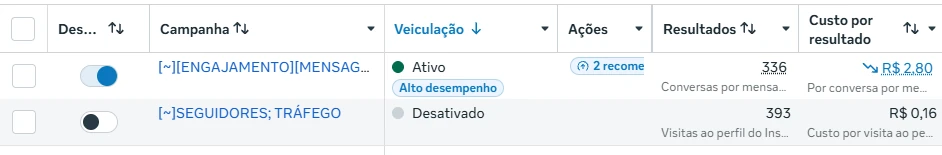
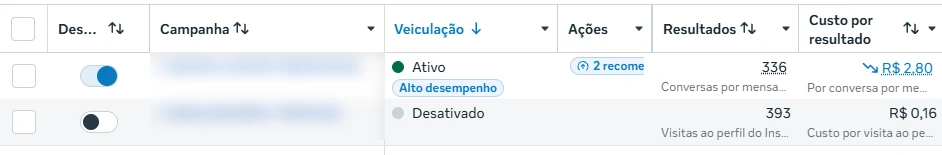
Social media com print real animado, campanhas borradas, painel da Michelli e ajustes de texto
Ainda não publicado: aguardando aprovação final.

Claude-Session: https://claude.ai/code/session_01Qdzs8DidFmEUhaW9UrPSR9

Changed region(s): [[0.1539, 0.3355, 0.4002, 0.4903], [0.1539, 0.671, 0.3694, 0.7742]]

diff --git a/index.html b/index.html
@@ -389,41 +389,14 @@
           </div>
           <div class="cine__stage" aria-hidden="true">
             <div class="cine__camera"><div class="m-mock" data-w="150" data-h="304">
-                <div class="m-phone"><div class="m-phone__screen m-ig">
-                  <span class="m-phone__island"></span>
-                  <div class="m-status"><span>9:41</span><i></i></div>
-                  <div class="m-ig__head"><span>‹</span><span>filtrum.mkt</span><svg viewBox="0 0 24 24"><path fill="currentColor" d="M5 10.5a1.5 1.5 0 1 0 0 3 1.5 1.5 0 0 0 0-3Zm7 0a1.5 1.5 0 1 0 0 3 1.5 1.5 0 0 0 0-3Zm7 0a1.5 1.5 0 1 0 0 3 1.5 1.5 0 0 0 0-3Z"/></svg></div>
-                  <div class="m-ig__prof">
-                    <span class="m-ig__ring"><img src="assets/img/links/avatar.jpg" alt=""></span>
-                    <span class="m-ig__name"><b>Filtrum Marketing Digital</b><small>Agência de marketing</small></span>
-                  </div>
-                  <p class="m-ig__bio">
-                    Anúncios que viram clientes no seu WhatsApp<br>
-                    Tráfego pago · Landing pages · Vídeos · Social media<br>
-                    Contrate só o que você precisa 👇
-                    <span><svg viewBox="0 0 24 24"><path class="m-st" d="M10 14a4 4 0 0 0 5.7 0l3-3a4 4 0 0 0-5.7-5.7l-1 1M14 10a4 4 0 0 0-5.7 0l-3 3a4 4 0 0 0 5.7 5.7l1-1"/></svg>filtrummkt.com.br/links</span>
-                  </p>
-                  <div class="m-ig__btns"><span class="m-ig__follow"><em style="font-style:normal">Seguir</em><i class="m-tap"></i></span><span>Mensagem</span></div>
-                  <div class="m-ig__hl"><span><i></i>Serviços</span><span><i></i>Tráfego</span><span><i></i>Vídeos</span><span><i></i>Contato</span></div>
-                  <div class="m-ig__tabs">
-                    <svg viewBox="0 0 24 24"><path class="m-st" d="M4 4h16v16H4zM4 9.3h16M4 14.6h16M9.3 4v16M14.6 4v16"/></svg>
-                    <svg viewBox="0 0 24 24"><g class="m-st"><rect x="3" y="5" width="18" height="14" rx="3"/><path d="m10 9 5 3-5 3z"/></g></svg>
-                    <svg viewBox="0 0 24 24"><g class="m-st"><rect x="4" y="4" width="16" height="16" rx="3"/><circle cx="12" cy="10" r="3"/><path d="M7 19c1-2.5 3-3.5 5-3.5s4 1 5 3.5"/></g></svg>
-                  </div>
-                  <div class="m-ig__gridwrap"><div class="m-ig__grid">
-                    <span class="m-post m-post--n m-post--r">Seu negócio é bom. Só falta gente saber.</span>
-                    <span class="m-post m-post--p"></span>
-                    <span class="m-post m-post--l">Contrate só o que você precisa</span>
-                    <span class="m-post m-post--c m-post--r">Impulsionar não é anunciar</span>
-                    <span class="m-post m-post--w">Landing page que vende</span>
-                    <span class="m-post m-post--n">Como funciona: 4 passos</span>
-                    <span class="m-post m-post--l m-post--r">Reels que prendem nos 3 primeiros segundos</span>
-                    <span class="m-post m-post--c">Meta Ads ou Google Ads?</span>
-                    <span class="m-post m-post--p"></span>
+                <div class="nm-phone"><div class="nm-scr">
+                  <div class="nm-igr"><div class="nm-igr-cam">
+                    <img src="assets/img/perfil-filtrum.webp" alt="" loading="lazy" decoding="async">
+                    <span class="nm-igr-hl"></span>
+                    <span class="nm-igr-tap"></span><span class="nm-igr-heart">♥</span>
                   </div></div>
                 </div></div>
               </div></div>
-            
           </div>
         </div>
       </article>
@@ -436,7 +409,7 @@
         <div class="section__head reveal">
           <p class="eyebrow">Resultados</p>
           <h2 class="section__title">Número de verdade, <span class="hl">não print bonito</span></h2>
-          <p class="section__lead">Prints reais de clientes da FILTRUM.</p>
+          <p class="section__lead">Prints reais de alguns clientes da FILTRUM.</p>
         </div>
 
         <h3 class="proof__group reveal">No tráfego pago</h3>
@@ -687,7 +660,6 @@
           <svg class="ico" aria-hidden="true"><use href="#i-whats"/></svg>
           Quero meu Raio-X de Tráfego grátis
         </a>
-        <p class="cta-final__phone">(98) 98278-7460</p>
       </div>
     </section>
 

diff --git a/links/index.html b/links/index.html
@@ -758,37 +758,11 @@
             </div>
             <div class="card__art" aria-hidden="true">
               <div class="mock" data-w="150" data-h="304">
-                <div class="phone"><div class="phone__screen ig">
-                  <span class="phone__island"></span>
-                  <div class="status"><span>9:41</span><i></i></div>
-                  <div class="ig__head"><span>‹</span><span>filtrum.mkt</span><svg viewBox="0 0 24 24"><path fill="currentColor" d="M5 10.5a1.5 1.5 0 1 0 0 3 1.5 1.5 0 0 0 0-3Zm7 0a1.5 1.5 0 1 0 0 3 1.5 1.5 0 0 0 0-3Zm7 0a1.5 1.5 0 1 0 0 3 1.5 1.5 0 0 0 0-3Z"/></svg></div>
-                  <div class="ig__prof">
-                    <span class="ig__ring"><img src="../assets/img/links/avatar.jpg" alt=""></span>
-                    <span class="ig__name"><b>Filtrum Marketing Digital</b><small>Agência de marketing</small></span>
-                  </div>
-                  <p class="ig__bio">
-                    Anúncios que viram clientes no seu WhatsApp<br>
-                    Tráfego pago · Landing pages · Vídeos · Social media<br>
-                    Contrate só o que você precisa 👇
-                    <span><svg viewBox="0 0 24 24"><path class="st" d="M10 14a4 4 0 0 0 5.7 0l3-3a4 4 0 0 0-5.7-5.7l-1 1M14 10a4 4 0 0 0-5.7 0l-3 3a4 4 0 0 0 5.7 5.7l1-1"/></svg>filtrummkt.com.br/links</span>
-                  </p>
-                  <div class="ig__btns"><span class="ig__follow" id="igFollow"><em id="igFollowTxt" style="font-style:normal">Seguir</em><i class="tap"></i></span><span>Mensagem</span></div>
-                  <div class="ig__hl"><span><i></i>Serviços</span><span><i></i>Tráfego</span><span><i></i>Vídeos</span><span><i></i>Contato</span></div>
-                  <div class="ig__tabs">
-                    <svg viewBox="0 0 24 24"><path class="st" d="M4 4h16v16H4zM4 9.3h16M4 14.6h16M9.3 4v16M14.6 4v16"/></svg>
-                    <svg viewBox="0 0 24 24"><g class="st"><rect x="3" y="5" width="18" height="14" rx="3"/><path d="m10 9 5 3-5 3z"/></g></svg>
-                    <svg viewBox="0 0 24 24"><g class="st"><rect x="4" y="4" width="16" height="16" rx="3"/><circle cx="12" cy="10" r="3"/><path d="M7 19c1-2.5 3-3.5 5-3.5s4 1 5 3.5"/></g></svg>
-                  </div>
-                  <div class="ig__gridwrap"><div class="ig__grid">
-                    <span class="post post--n post--r">Seu negócio é bom. Só falta gente saber.</span>
-                    <span class="post post--p"></span>
-                    <span class="post post--l">Contrate só o que você precisa</span>
-                    <span class="post post--c post--r">Impulsionar não é anunciar</span>
-                    <span class="post post--w">Landing page que vende</span>
-                    <span class="post post--n">Como funciona: 4 passos</span>
-                    <span class="post post--l post--r">Reels que prendem nos 3 primeiros segundos</span>
-                    <span class="post post--c">Meta Ads ou Google Ads?</span>
-                    <span class="post post--p"></span>
+                <div class="nm-phone"><div class="nm-scr">
+                  <div class="nm-igr"><div class="nm-igr-cam">
+                    <img src="../assets/img/perfil-filtrum.webp" alt="" loading="lazy" decoding="async">
+                    <span class="nm-igr-hl"></span>
+                    <span class="nm-igr-tap"></span><span class="nm-igr-heart">♥</span>
                   </div></div>
                 </div></div>
               </div>

diff --git a/assets/css/nm.css b/assets/css/nm.css
@@ -128,3 +128,21 @@
 
 /* no site, o reset das telas zera o padding: devolve a moldura do celular */
 .cine .m-mock .nm-phone{padding:5px}
+
+/* ---------- social media: print real do perfil da Filtrum, com movimento ---------- */
+.nm-phone .nm-igr{position:absolute;inset:0;overflow:hidden;background:#000}
+.nm-phone .nm-igr-cam{position:absolute;left:0;top:0;width:100%;transform-origin:0 0}
+.nm-phone .nm-igr-cam img{display:block;width:100%;height:auto}
+.nm-phone .nm-igr-hl{position:absolute;left:3%;width:78%;top:25%;height:7.6%;border:1.5px solid #D4FF24;border-radius:6px;box-shadow:0 0 10px rgba(212,255,36,.6);opacity:0}
+.nm-phone .nm-igr-tap{position:absolute;left:50%;top:78%;width:22px;height:22px;margin:-11px 0 0 -11px;border-radius:50%;border:2px solid #fff;background:rgba(255,255,255,.35);opacity:0}
+.nm-phone .nm-igr-heart{position:absolute;left:50%;top:78%;margin:-14px 0 0 -12px;font-size:24px;line-height:1;color:#fff;opacity:0;text-shadow:0 2px 8px rgba(0,0,0,.5)}
+@media (prefers-reduced-motion:no-preference){
+  .nm-phone .nm-igr-cam{animation:nmIgCam 10s ease-in-out infinite}
+  .nm-phone .nm-igr-hl{animation:nmIgHl 10s ease-in-out infinite}
+  .nm-phone .nm-igr-tap{animation:nmIgTap 10s ease-out infinite}
+  .nm-phone .nm-igr-heart{animation:nmIgHeart 10s ease-out infinite}
+  @keyframes nmIgCam{0%,6%{transform:scale(1) translate(0,0)}16%,32%{transform:scale(1.3) translate(-3%,-1%)}52%,72%{transform:scale(1.3) translate(-3%,-25.5%)}90%,100%{transform:scale(1) translate(0,0)}}
+  @keyframes nmIgHl{0%,6%{opacity:0}12%,30%{opacity:1}36%,100%{opacity:0}}
+  @keyframes nmIgTap{0%,58%{opacity:0;transform:scale(.5)}60%{opacity:1;transform:scale(1)}66%,100%{opacity:0;transform:scale(1.8)}}
+  @keyframes nmIgHeart{0%,60%{opacity:0;transform:scale(.3)}63%{opacity:1;transform:scale(1.2)}68%{transform:scale(1)}74%,100%{opacity:0;transform:scale(1)}}
+}
